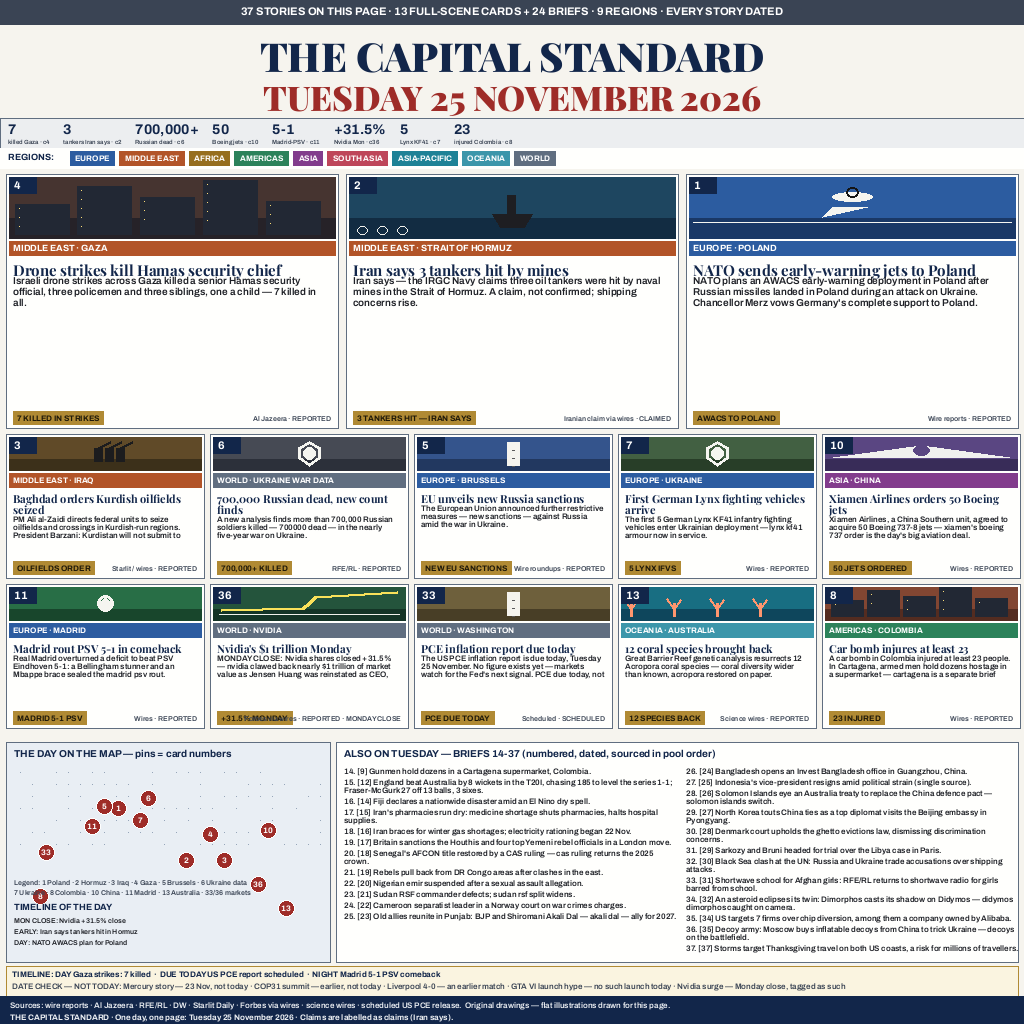
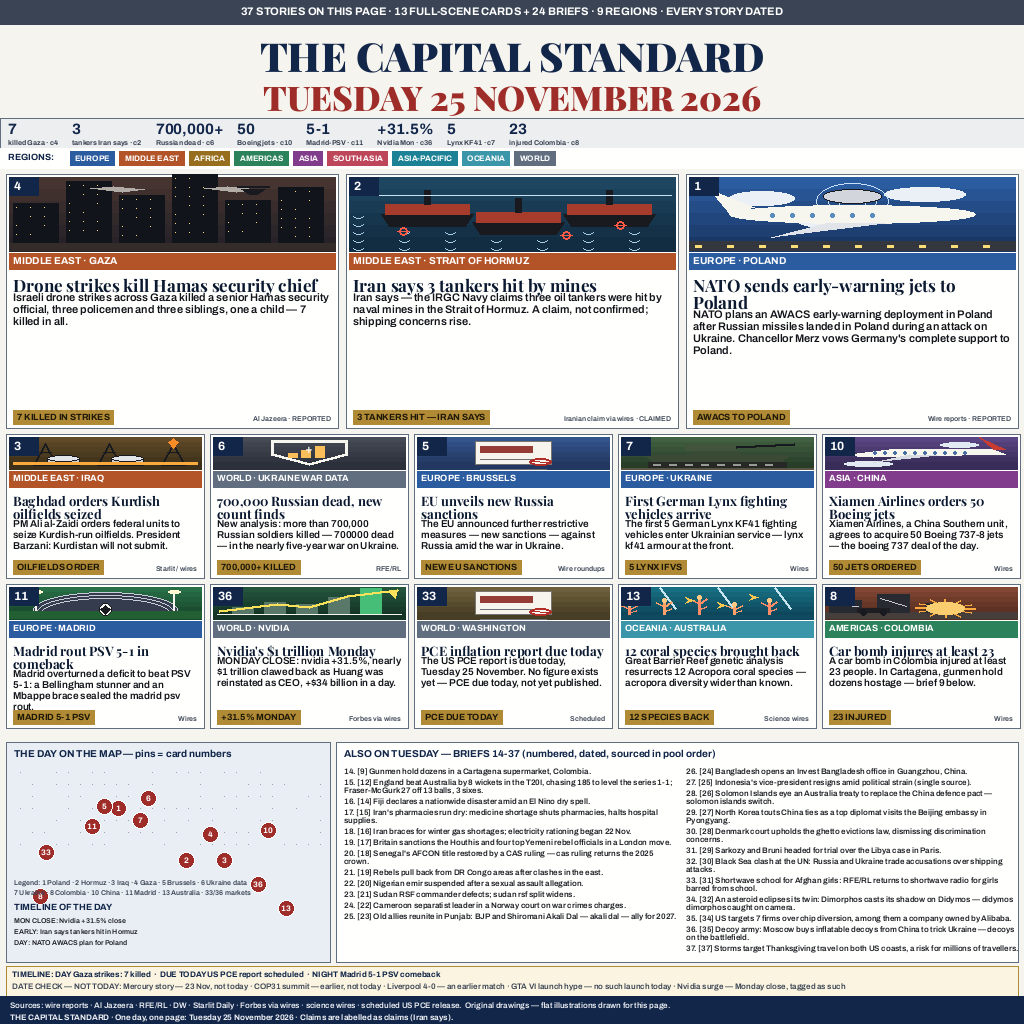
NI25 F1 v2 rebuild: layered story-specific scenes + enlarged grid typography (duel v2 winner C over D and standing v1 A)

Changed region(s): [[0.0, 0.4062, 1.0, 0.7188], [0.0, 0.125, 1.0, 0.3438], [0.5, 0.125, 0.5625, 0.1562]]

diff --git a/compose.py b/compose.py
@@ -46,67 +46,152 @@ def text_block(d, xy, text, font, fill, maxw, leading=1.12, max_lines=None):
         y += lh
     return y
 
-# ---------- flat layered scene illustrations ----------
+# ---------- v2: rich layered scene illustrations (specific to each story) ----------
+def _lerp(a, b, t):
+    return tuple(int(a[i] + (b[i] - a[i]) * t) for i in range(3))
+
 def scene(d, box, kind, c1, c2):
     x0, y0, x1, y1 = box
-    d.rectangle(box, fill=c1)
-    # layered bands
-    d.rectangle([x0, y1 - (y1 - y0) // 3, x1, y1], fill=c2)
+    w, h = x1 - x0, y1 - y0
+    # sky/ground gradient bands (layered depth)
+    for i in range(6):
+        d.rectangle([x0, y0 + h * i // 6, x1, y0 + h * (i + 1) // 6 + 1], fill=_lerp(c1, c2, i / 5))
     cx, cy = (x0 + x1) // 2, (y0 + y1) // 2
-    s = min(x1 - x0, y1 - y0)
-    if kind == "plane":  # AWACS: fuselage + radar dome
-        d.ellipse([cx - s//3, cy - s//4, cx + s//3, cy - s//10], fill=(245,245,240))
-        d.polygon([(cx - s//3, cy), (cx - s//2, cy + s//6), (cx + s//4, cy)], fill=(245,245,240))
-        d.ellipse([cx - s//10, cy - s//3, cx + s//10, cy - s//6], outline=(20,20,20), width=2)
-        d.line([x0 + 4, cy + s//4, x1 - 4, cy + s//4], fill=(245,245,240), width=1)
-    elif kind == "ship":
-        d.polygon([(cx - s//3, cy + s//8), (cx + s//3, cy + s//8), (cx + s//5, cy + s//3), (cx - s//5, cy + s//3)], fill=(30,30,34))
-        d.rectangle([cx - s//12, cy - s//5, cx + s//20, cy + s//8], fill=(30,30,34))
+    WHT = (246, 245, 238); DRK = (24, 26, 32); GLD = (250, 220, 120)
+    if kind == "plane":  # AWACS over Poland: sky, clouds, radar rings, runway
+        for (ex, ey, ew) in [(x0 + w//8, y0 + h//5, w//5), (x0 + 3*w//5, y0 + h//7, w//4), (x0 + w//3, y0 + h//2, w//6)]:
+            d.ellipse([ex, ey, ex + ew, ey + h//5], fill=(235, 240, 246))
+        for r in (h//5, h//3, h//2):
+            d.ellipse([cx - r, cy - r//2 - h//6, cx + r, cy + r//2 - h//6], outline=(200, 225, 250), width=1)
+        d.ellipse([x0 + w//8, cy - h//9, x1 - w//8, cy + h//7], fill=WHT)
+        d.polygon([(x0 + w//8, cy), (x0 + w//16, cy - h//3), (x0 + w//5, cy - h//12)], fill=WHT)
+        d.polygon([(cx - w//14, cy + h//8), (cx - w//4, cy + h//3), (cx + w//10, cy + h//7)], fill=(225, 228, 232))
+        d.ellipse([cx - w//11, cy - h//3, cx + w//11, cy - h//7], fill=(210, 214, 220), outline=DRK, width=1)
+        for wx in range(x0 + w//4, x0 + 3*w//5, max(6, w//16)):
+            d.ellipse([wx, cy, wx + 4, cy + 4], fill=(90, 140, 190))
+        d.rectangle([x0, y1 - h//8, x1, y1], fill=(52, 56, 62))
+        for dx in range(x0 + 6, x1 - 6, max(10, w//10)):
+            d.rectangle([dx, y1 - h//16 - 1, dx + 6, y1 - h//16 + 1], fill=GLD)
+    elif kind == "ship":  # Hormuz: three tankers, sea lanes, mine markers
+        for wy in range(y0 + h//2, y1 - 2, max(4, h//9)):
+            for wx in range(x0 + 4, x1 - 10, max(14, w//7)):
+                d.arc([wx, wy, wx + 10, wy + 5], 0, 180, fill=(170, 205, 230), width=1)
+        for i, fx in enumerate((0.24, 0.52, 0.8)):
+            tx = x0 + int(w * fx); base = y0 + int(h * (0.52 + 0.1 * (i % 2)))
+            sc = max(14, w // 7)
+            d.polygon([(tx - sc, base), (tx + sc, base), (tx + sc - 8, base + h//6), (tx - sc + 8, base + h//6)], fill=DRK)
+            d.rectangle([tx - sc + 4, base - h//7, tx + sc - 4, base], fill=(168, 60, 44))
+            d.rectangle([tx - 3, base - h//3, tx + 3, base - h//7], fill=DRK)
+        for (mx, my) in [(x0 + w//6, y0 + 3*h//4), (x0 + 2*w//3, y0 + 4*h//5), (x0 + 5*w//6, y0 + 2*h//3)]:
+            d.ellipse([mx - 4, my - 4, mx + 4, my + 4], outline=(250, 90, 70), width=2)
+            d.line([mx - 6, my, mx + 6, my], fill=(250, 90, 70), width=1)
+        d.line([x0 + 4, y0 + h//4, x1 - 4, y0 + h//4], fill=(200, 225, 245), width=1)
+    elif kind == "city":  # Gaza: skyline, lit windows, smoke plumes, drone overhead
+        for i, hh in enumerate([0.55, 0.85, 0.66, 0.95, 0.6, 0.78]):
+            bx = x0 + 4 + i * (w - 8) // 6; bw = (w - 8) // 7
+            top = y1 - int(h * hh) - h//10
+            d.rectangle([bx, top, bx + bw, y1 - h//10], fill=(18, 20, 28))
+            for wy in range(top + 4, y1 - h//10 - 4, max(5, h//8)):
+                for wx in range(bx + 3, bx + bw - 2, max(5, w//22)):
+                    if (wx * 7 + wy * 3) % 5:
+                        d.point((wx, wy), fill=GLD)
+        for px in (x0 + w//4, x0 + 3*w//5):
+            d.polygon([(px, y1 - int(h*0.85)), (px + w//14, y0 + h//8), (px + w//6, y0 + h//6), (px + w//10, y1 - int(h*0.8))], fill=(178, 172, 166))
+        dx, dy = x0 + 3*w//4, y0 + h//6
+        d.polygon([(dx - 12, dy), (dx + 12, dy), (dx + 4, dy + 5), (dx - 4, dy + 5)], fill=DRK)
+        d.line([dx - 16, dy - 3, dx + 16, dy - 3], fill=DRK, width=2)
+        d.rectangle([x0, y1 - h//10, x1, y1], fill=(52, 44, 40))
+    elif kind == "oil":  # Iraq oilfields: derricks, storage tanks, pipeline, flare
         for i in range(3):
-            d.ellipse([x0 + 8 + i * (s//3), y1 - 12, x0 + 18 + i * (s//3), y1 - 4], outline=(240,240,235), width=1)
-    elif kind == "city":
-        for i, hh in enumerate([0.5, 0.8, 0.62, 0.9, 0.55]):
-            bx = x0 + 6 + i * (x1 - x0 - 12) // 5
-            d.rectangle([bx, y1 - int((y1-y0)*hh) - 4, bx + (x1-x0)//6, y1 - 4], fill=(34,40,52))
-            for wy in range(y1 - int((y1-y0)*hh), y1 - 10, 9):
-                d.point((bx + 4, wy), fill=(250,220,120))
-    elif kind == "dome":
-        d.pieslice([cx - s//3, cy - s//3, cx + s//3, cy + s//3], 180, 360, fill=(240,238,230))
-        d.rectangle([cx - s//3, cy, cx + s//3, cy + 3], fill=(240,238,230))
-        d.line([cx, cy - s//3, cx, cy - s//2], fill=(240,238,230), width=2)
-    elif kind == "oil":
-        for i in range(3):
-            bx = cx - s//3 + i * s//3
-            d.rectangle([bx, cy - s//6, bx + 8, cy + s//4], fill=(28,28,30))
-            d.line([bx + 4, cy - s//6, bx + 16, cy - s//3], fill=(28,28,30), width=3)
-    elif kind == "chart":
-        pts = [(x0 + 8, y1 - 10), (cx - s//5, cy + s//6), (cx, cy), (cx + s//5, cy - s//5), (x1 - 8, cy - s//3)]
-        d.line(pts, fill=(250,225,90), width=3)
-        d.line([x0 + 6, y1 - 6, x1 - 6, y1 - 6], fill=(240,240,235), width=1)
-    elif kind == "shield":
-        d.polygon([(cx, y0 + 4), (cx + s//3, y0 + 10), (cx + s//3, cy + s//6), (cx, y1 - 4), (cx - s//3, cy + s//6), (cx - s//3, y0 + 10)], outline=(245,245,240), width=3)
-        d.ellipse([cx - 6, cy - 6, cx + 6, cy + 6], fill=(245,245,240))
-    elif kind == "ball":
-        d.ellipse([cx - s//4, cy - s//4, cx + s//4, cy + s//4], outline=(245,245,240), width=3)
-        d.polygon([(cx, cy - 6), (cx + 7, cy), (cx, cy + 7), (cx - 7, cy)], fill=(245,245,240))
-    elif kind == "coral":
-        for i in range(4):
-            bx = x0 + 10 + i * (x1 - x0 - 20) // 4
-            d.line([bx, y1 - 4, bx, cy], fill=(255,150,110), width=3)
-            d.line([bx, cy + 6, bx - 7, cy - 4], fill=(255,150,110), width=2)
-            d.line([bx, cy + 6, bx + 7, cy - 4], fill=(255,150,110), width=2)
-    elif kind == "jet":
-        d.polygon([(x0 + 8, cy + 4), (cx, cy - s//4), (x1 - 8, cy + 4), (cx, cy + s//8)], fill=(240,240,238))
-        d.ellipse([cx - 8, cy - 8, cx + 8, cy + 2], fill=c1)
-    elif kind == "doc":
-        d.rectangle([cx - s//5, y0 + 5, cx + s//5, y1 - 5], fill=(245,244,238))
-        for i in range(3):
-            d.line([cx - s//5 + 5, y0 + 13 + i * 8, cx + s//5 - 5, y0 + 13 + i * 8], fill=(90,90,90), width=1)
-    else:  # sun / generic
-        d.ellipse([cx - s//5, cy - s//5, cx + s//5, cy + s//5], fill=(250,215,110))
-        for a in range(0, 360, 45):
+            bx = x0 + w//8 + i * w//3
+            d.polygon([(bx, y1 - h//8), (bx + w//16, y0 + h//5), (bx + w//8, y1 - h//8)], outline=DRK, width=2)
+            d.line([bx + w//32, y0 + h//2, bx + 3*w//32, y0 + h//2], fill=DRK, width=1)
+        for i in range(2):
+            tx = x0 + w//5 + i * w//3
+            d.rectangle([tx, y1 - h//3, tx + w//6, y1 - h//8], fill=(205, 208, 212), outline=DRK)
+            d.ellipse([tx, y1 - h//3 - 3, tx + w//6, y1 - h//3 + 3], fill=(225, 228, 232), outline=DRK)
+        d.line([x0 + 4, y1 - h//6, x1 - 4, y1 - h//6], fill=(250, 170, 60), width=3)
+        fx, fy = x0 + 6*w//7, y0 + h//6
+        d.polygon([(fx, fy + h//5), (fx - 5, fy), (fx, fy - h//7), (fx + 5, fy), ], fill=(250, 140, 40))
+    elif kind == "chart":  # Nvidia: bars + soaring line + axis
+        base = y1 - h//7
+        for i, bh in enumerate((0.25, 0.4, 0.34, 0.58, 0.86)):
+            bx = x0 + w//10 + i * w//6
+            d.rectangle([bx, base - int(h * bh), bx + w//9, base], fill=(70, 190, 120) if i == 4 else (90, 120, 105))
+        pts = [(x0 + 6, base - h//8), (cx - w//6, base - h//3), (cx, base - h//4), (cx + w//5, base - 3*h//5), (x1 - 8, base - 4*h//5)]
+        d.line(pts, fill=(250, 225, 90), width=3)
+        d.polygon([(x1 - 8, base - 4*h//5), (x1 - 16, base - 4*h//5 + 2), (x1 - 10, base - 4*h//5 + 8)], fill=(250, 225, 90))
+        d.line([x0 + 4, base, x1 - 4, base], fill=WHT, width=1)
+    elif kind == "shield":  # war-data: shield over bar-chart of loss + cross markers
+        d.polygon([(cx, y0 + 3), (cx + w//5, y0 + h//8), (cx + w//5, cy + h//8), (cx, y1 - 3), (cx - w//5, cy + h//8), (cx - w//5, y0 + h//8)], outline=WHT, width=3)
+        for i, bh in enumerate((0.3, 0.5, 0.72)):
+            bx = cx - w//9 + i * w//14
+            d.rectangle([bx, cy + h//6 - int(h * bh * 0.5), bx + w//20, cy + h//6], fill=(250, 190, 90))
+        d.text((cx - 4, y0 + h//6), "+", font=F(AR_B, 12), fill=WHT)
+    elif kind == "tank":  # Lynx KF41: armoured vehicle profile, tracks, turret
+        gy = y1 - h//5
+        d.polygon([(x0 + w//8, gy - h//4), (x0 + w//3, gy - h//4), (x0 + 2*w//5, gy - 2*h//5), (x0 + 3*w//5, gy - 2*h//5), (x0 + 5*w//8, gy - h//4), (x1 - w//8, gy - h//4), (x1 - w//6, gy), (x0 + w//6, gy)], fill=(58, 74, 52))
+        d.rectangle([x0 + w//3, gy - 3*h//5, x0 + 3*w//5, gy - 2*h//5], fill=(66, 84, 60))
+        d.line([x0 + 3*w//5, gy - h//2, x1 - w//10, gy - 3*h//5], fill=DRK, width=3)
+        d.rectangle([x0 + w//7, gy, x1 - w//7, gy + h//6], fill=(38, 40, 38))
+        for wx in range(x0 + w//6, x1 - w//6, max(8, w//12)):
+            d.ellipse([wx, gy + 2, wx + 7, gy + h//6 - 2], outline=(150, 155, 150), width=1)
+        d.line([x0, gy + h//5, x1, gy + h//5], fill=(90, 84, 70), width=2)
+    elif kind == "ball":  # Madrid: stadium bowl, floodlights, ball, scoreboard arc
+        d.pieslice([x0 + w//8, y0 + h//6, x1 - w//8, y1 + h//3], 180, 360, fill=(52, 60, 78))
+        for r in range(3):
+            d.arc([x0 + w//8 + r * 4, y0 + h//6 + r * 3, x1 - w//8 - r * 4, y1 + h//3], 180, 360, fill=(200, 205, 215))
+        for fx in (x0 + w//7, x1 - w//7):
+            d.line([fx, y1 - h//4, fx, y0 + h//8], fill=WHT, width=2)
+            d.ellipse([fx - 6, y0 + h//10, fx + 6, y0 + h//5], fill=(255, 250, 210))
+        d.rectangle([x0, y1 - h//4, x1, y1], fill=(34, 96, 52))
+        d.ellipse([cx - h//5, y1 - h//2, cx + h//5, y1 - h//10], fill=WHT, outline=DRK)
+        d.polygon([(cx, y1 - 3*h//10 - 4), (cx + 5, y1 - 3*h//10), (cx, y1 - 3*h//10 + 5), (cx - 5, y1 - 3*h//10)], fill=DRK)
+    elif kind == "coral":  # GBR reef: branching coral, fish, seabed, sun rays
+        for sx in (x0 + w//5, x0 + w//2, x0 + 4*w//5):
+            d.line([sx, y0, sx + w//12, y1 - h//3], fill=(200, 230, 240), width=2)
+        for i in range(5):
+            bx = x0 + 8 + i * (w - 16) // 5; bh = h * (0.45 + 0.1 * (i % 3))
+            col = (255, 140 + 20 * (i % 2), 105)
+            d.line([bx, y1 - h//8, bx, y1 - int(bh)], fill=col, width=3)
+            d.line([bx, y1 - int(bh * 0.7), bx - 8, y1 - int(bh * 0.9)], fill=col, width=2)
+            d.line([bx, y1 - int(bh * 0.7), bx + 8, y1 - int(bh)], fill=col, width=2)
+            d.line([bx, y1 - int(bh * 0.45), bx + 7, y1 - int(bh * 0.62)], fill=col, width=2)
+            d.ellipse([bx - 2, y1 - int(bh) - 3, bx + 2, y1 - int(bh) + 1], fill=(255, 200, 130))
+        for (fx, fy) in [(x0 + w//3, y0 + h//3), (x0 + 2*w//3, y0 + h//4), (x0 + w//2, y0 + h//2)]:
+            d.polygon([(fx, fy), (fx + 9, fy + 3), (fx, fy + 6), (fx + 3, fy + 3)], fill=(250, 200, 80))
+        d.rectangle([x0, y1 - h//8, x1, y1], fill=(16, 74, 96))
+    elif kind == "jet":  # Boeing 737-8: airliner profile, windows, tail, clouds
+        for (ex, ey, ew) in [(x0 + w//10, y1 - h//4, w//4), (x0 + 3*w//5, y0 + h//6, w//5)]:
+            d.ellipse([ex, ey, ex + ew, ey + h//6], fill=(225, 233, 242))
+        d.polygon([(x0 + w//12, cy + h//10), (x0 + w//3, cy - h//8), (x1 - w//8, cy - h//10), (x1 - w//16, cy + h//12), (x0 + w//4, cy + h//6)], fill=WHT)
+        d.polygon([(x1 - w//8, cy - h//10), (x1 - w//5, cy - h//2), (x1 - w//16, cy - h//10)], fill=(200, 60, 50))
+        d.polygon([(cx - w//16, cy + h//12), (cx - w//4, cy + h//3), (cx + w//12, cy + h//10)], fill=(215, 220, 226))
+        for wx in range(x0 + w//4, x1 - w//4, max(6, w//18)):
+            d.ellipse([wx, cy - h//16, wx + 3, cy - h//16 + 3], fill=(70, 110, 160))
+    elif kind == "blast":  # Colombia car bomb: street, car, burst, broken windows
+        d.rectangle([x0, y1 - h//5, x1, y1], fill=(70, 62, 58))
+        for i, hh in enumerate((0.6, 0.8, 0.5)):
+            bx = x0 + 4 + i * w // 4
+            d.rectangle([bx, y1 - int(h * hh), bx + w//6, y1 - h//5], fill=(40, 42, 50))
+            d.line([bx + 3, y1 - int(h * hh) + 4, bx + w//6 - 3, y1 - h//5 - 6], fill=(200, 200, 205), width=1)
+        bx2, by2 = cx + w//8, y1 - h//3
+        for a in range(0, 360, 30):
             import math
-            d.line([cx, cy, cx + int(s*0.36*math.cos(math.radians(a))), cy + int(s*0.36*math.sin(math.radians(a)))], fill=(250,215,110), width=2)
+            d.line([bx2, by2, bx2 + int(w * 0.16 * math.cos(math.radians(a))), by2 + int(h * 0.3 * math.sin(math.radians(a)))], fill=(250, 170, 60), width=2)
+        d.ellipse([bx2 - w//10, by2 - h//5, bx2 + w//10, by2 + h//5], fill=(250, 205, 110))
+        d.rectangle([x0 + w//6, y1 - h//3, x0 + w//3, y1 - h//5], fill=(30, 30, 34))
+        d.ellipse([x0 + w//6 + 3, y1 - h//5 - 3, x0 + w//6 + 9, y1 - h//5 + 3], fill=DRK)
+        d.ellipse([x0 + w//3 - 9, y1 - h//5 - 3, x0 + w//3 - 3, y1 - h//5 + 3], fill=DRK)
+    elif kind == "doc":  # sanctions / PCE: document, seal, ruled lines, stamp
+        d.rectangle([cx - w//5, y0 + 4, cx + w//5, y1 - 4], fill=(246, 244, 236), outline=(120, 118, 110))
+        d.rectangle([cx - w//5 + 5, y0 + 9, cx + w//10, y0 + 15], fill=(150, 60, 55))
+        for i in range(3):
+            d.line([cx - w//5 + 5, y0 + 22 + i * max(5, h//7), cx + w//5 - 5, y0 + 22 + i * max(5, h//7)], fill=(110, 110, 115), width=1)
+        d.ellipse([cx + w//12, y1 - h//3, cx + w//5, y1 - h//8], outline=(178, 44, 40), width=2)
+        d.line([cx + w//12 + 3, y1 - h//4, cx + w//5 - 3, y1 - h//5], fill=(178, 44, 40), width=1)
+    else:
+        d.ellipse([cx - w//6, cy - h//4, cx + w//6, cy + h//4], fill=(250, 215, 110))
 
 REGION_COLORS = {
     "EUROPE": (44, 92, 160), "MIDDLE EAST": (178, 84, 40), "AFRICA": (150, 110, 30),
@@ -129,35 +214,35 @@ LEADS = [
 ]
 GRID = [
     (3, "MIDDLE EAST", "IRAQ", "Baghdad orders Kurdish oilfields seized",
-     "PM Ali al-Zaidi directs federal units to seize oilfields and crossings in Kurdish-run regions. President Barzani: Kurdistan will not submit to unconstitutional decisions.",
+     "PM Ali al-Zaidi orders federal units to seize Kurdish-run oilfields. President Barzani: Kurdistan will not submit.",
      "Starlit / wires", "REPORTED", "OILFIELDS ORDER", "oil", (96, 74, 40), (60, 48, 26)),
     (6, "WORLD", "UKRAINE WAR DATA", "700,000 Russian dead, new count finds",
-     "A new analysis finds more than 700,000 Russian soldiers killed — 700000 dead — in the nearly five-year war on Ukraine.",
+     "New analysis: more than 700,000 Russian soldiers killed — 700000 dead — in the nearly five-year war on Ukraine.",
      "RFE/RL", "REPORTED", "700,000+ KILLED", "shield", (70, 74, 84), (44, 48, 58)),
     (5, "EUROPE", "BRUSSELS", "EU unveils new Russia sanctions",
-     "The European Union announced further restrictive measures — new sanctions — against Russia amid the war in Ukraine.",
+     "The EU announced further restrictive measures — new sanctions — against Russia amid the war in Ukraine.",
      "Wire roundups", "REPORTED", "NEW EU SANCTIONS", "doc", (52, 84, 140), (34, 56, 96)),
     (7, "EUROPE", "UKRAINE", "First German Lynx fighting vehicles arrive",
-     "The first 5 German Lynx KF41 infantry fighting vehicles enter Ukrainian deployment — lynx kf41 armour now in service.",
-     "Wires", "REPORTED", "5 LYNX IFVS", "shield", (66, 96, 66), (40, 62, 40)),
+     "The first 5 German Lynx KF41 fighting vehicles enter Ukrainian service — lynx kf41 armour at the front.",
+     "Wires", "REPORTED", "5 LYNX IFVS", "tank", (66, 96, 66), (40, 62, 40)),
     (10, "ASIA", "CHINA", "Xiamen Airlines orders 50 Boeing jets",
-     "Xiamen Airlines, a China Southern unit, agreed to acquire 50 Boeing 737-8 jets — xiamen's boeing 737 order is the day's big aviation deal.",
+     "Xiamen Airlines, a China Southern unit, agrees to acquire 50 Boeing 737-8 jets — the boeing 737 deal of the day.",
      "Wires", "REPORTED", "50 JETS ORDERED", "jet", (90, 70, 130), (56, 44, 88)),
     (11, "EUROPE", "MADRID", "Madrid rout PSV 5-1 in comeback",
-     "Real Madrid overturned a deficit to beat PSV Eindhoven 5-1: a Bellingham stunner and an Mbappe brace sealed the madrid psv rout.",
+     "Madrid overturned a deficit to beat PSV 5-1: a Bellingham stunner and an Mbappe brace sealed the madrid psv rout.",
      "Wires", "REPORTED", "MADRID 5-1 PSV", "ball", (40, 110, 70), (24, 70, 44)),
     (36, "WORLD", "NVIDIA", "Nvidia's $1 trillion Monday",
-     "MONDAY CLOSE: Nvidia shares closed +31.5% — nvidia clawed back nearly $1 trillion of market value as Jensen Huang was reinstated as CEO, +$34 billion in a day (Forbes).",
+     "MONDAY CLOSE: nvidia +31.5%, nearly $1 trillion clawed back as Huang was reinstated as CEO, +$34 billion in a day.",
      "Forbes via wires", "REPORTED · MONDAY CLOSE", "+31.5% MONDAY", "chart", (36, 84, 60), (20, 52, 38)),
     (33, "WORLD", "WASHINGTON", "PCE inflation report due today",
-     "The US PCE inflation report is due today, Tuesday 25 November. No figure exists yet — markets watch for the Fed's next signal. PCE due today, not yet published.",
+     "The US PCE report is due today, Tuesday 25 November. No figure exists yet — PCE due today, not yet published.",
      "Scheduled", "SCHEDULED", "PCE DUE TODAY", "doc", (110, 96, 60), (72, 62, 38)),
     (13, "OCEANIA", "AUSTRALIA", "12 coral species brought back",
-     "Great Barrier Reef genetic analysis resurrects 12 Acropora coral species — coral diversity wider than known, acropora restored on paper.",
+     "Great Barrier Reef genetic analysis resurrects 12 Acropora coral species — acropora diversity wider than known.",
      "Science wires", "REPORTED", "12 SPECIES BACK", "coral", (24, 110, 130), (14, 70, 92)),
     (8, "AMERICAS", "COLOMBIA", "Car bomb injures at least 23",
-     "A car bomb in Colombia injured at least 23 people. In Cartagena, armed men hold dozens hostage in a supermarket — cartagena is a separate brief below.",
-     "Wires", "REPORTED", "23 INJURED", "city", (130, 70, 50), (84, 44, 32)),
+     "A car bomb in Colombia injured at least 23 people. In Cartagena, gunmen hold dozens hostage — brief 9 below.",
+     "Wires", "REPORTED", "23 INJURED", "blast", (130, 70, 50), (84, 44, 32)),
 ]
 BRIEFS = [
     (9, "Gunmen hold dozens in a Cartagena supermarket, Colombia."),
@@ -201,19 +286,19 @@ def card(d, box, story, big=False):
     num, region, place, head, deck, source, cert, chip, kind, c1, c2 = story
     x0, y0, x1, y1 = box
     d.rectangle(box, fill=(255, 255, 253), outline=STEEL, width=1)
-    sh = 64 if big else 36
+    sh = 76 if big else 34
     scene(d, (x0 + 3, y0 + 3, x1 - 3, y0 + sh), kind, c1, c2)
-    d.rectangle([x0 + 3, y0 + 3, x0 + 30, y0 + 19], fill=INK)
-    d.text((x0 + 8, y0 + 5), str(num), font=F(AR_B, 11), fill=(255, 255, 255))
+    d.rectangle([x0 + 3, y0 + 3, x0 + 32, y0 + 21], fill=INK)
+    d.text((x0 + 8, y0 + 5), str(num), font=F(AR_B, 12), fill=(255, 255, 255))
     rc = REGION_COLORS[region]
-    d.rectangle([x0 + 3, y0 + sh + 3, x1 - 3, y0 + sh + 17], fill=rc)
-    d.text((x0 + 7, y0 + sh + 5), f"{region} · {place}", font=F(AR_B, 8 if not big else 9), fill=(255, 255, 255))
-    yy = text_block(d, (x0 + 7, y0 + sh + 21), head, F(PF_BOLD, 15 if big else 11), INK, x1 - x0 - 14, 1.05, 2)
-    yy = text_block(d, (x0 + 7, yy + 1), deck, F(AR, 10 if big else 8), (30, 32, 38), x1 - x0 - 14, 1.12, 5 if big else 3)
+    d.rectangle([x0 + 3, y0 + sh + 3, x1 - 3, y0 + sh + 19], fill=rc)
+    d.text((x0 + 7, y0 + sh + 5), f"{region} · {place}", font=F(AR_B, 10 if big else 9), fill=(255, 255, 255))
+    yy = text_block(d, (x0 + 7, y0 + sh + 23), head, F(PF_BOLD, 17 if big else 13), (10, 24, 48), x1 - x0 - 14, 1.05, 2)
+    yy = text_block(d, (x0 + 7, yy + 1), deck, F(AR, 11 if big else 10), (18, 20, 26), x1 - x0 - 14, 1.1, 6 if big else 4)
     # chip + source at bottom
-    d.rectangle([x0 + 7, y1 - 17, x0 + 7 + d.textlength(chip, font=F(AR_B, 8)) + 8, y1 - 4], fill=GOLD)
-    d.text((x0 + 11, y1 - 15), chip, font=F(AR_B, 8), fill=(30, 24, 8))
-    src = f"{source} · {cert}"
+    d.rectangle([x0 + 7, y1 - 18, x0 + 7 + d.textlength(chip, font=F(AR_B, 9)) + 8, y1 - 4], fill=GOLD)
+    d.text((x0 + 11, y1 - 16), chip, font=F(AR_B, 9), fill=(30, 24, 8))
+    src = f"{source} · {cert}" if big else source
     d.text((x1 - 7 - d.textlength(src, font=F(AR, 7)), y1 - 14), src, font=F(AR, 7), fill=STEEL_D)
     return
 
@@ -232,11 +317,11 @@ def header(d, variant):
     d.rectangle([0, 118, W, 148], fill=PAPER2, outline=STEEL)
     x = 8
     for n, lab in NUMBERS:
-        nw = d.textlength(n, font=F(AR_B, 14))
-        lw = d.textlength(lab, font=F(AR, 6))
+        nw = d.textlength(n, font=F(AR_B, 15))
+        lw = d.textlength(lab, font=F(AR_B, 7))
         cell = max(nw, lw) + 10
-        d.text((x, 121), n, font=F(AR_B, 14), fill=INK)
-        d.text((x, 138), lab, font=F(AR, 6), fill=STEEL_D)
+        d.text((x, 120), n, font=F(AR_B, 15), fill=INK)
+        d.text((x, 138), lab, font=F(AR_B, 7), fill=STEEL_D)
         x += cell + 4
     # region strip
     d.rectangle([0, 148, W, 168], fill=(255, 255, 253))
@@ -298,9 +383,9 @@ def bottom(d, variant):
 def build(variant, out):
     img = Image.new("RGB", (W, H), PAPER)
     d = ImageDraw.Draw(img)
-    header(d, variant)
-    if variant == "A":
-        # Layout C-A: lead trio row, Gaza first (matrix order)
+    header(d, "B" if variant == "D" else "A")
+    if variant == "C":
+        # v2-C: trio berjajar urutan matriks (Gaza · Hormuz · NATO), grid urutan pool
         xs = [6, 346, 686]
         for i, st in enumerate(LEADS):
             card(d, (xs[i], 174, xs[i] + 332, 428), st, big=True)
@@ -310,11 +395,12 @@ def build(variant, out):
             x = 6 + c * 204
             card(d, (x, 434 + r * 150, x + 198, 434 + r * 150 + 144), st)
     else:
-        # Layout C-B: NATO wide lead left, Gaza+Hormuz stacked right; grid order rotated
-        card(d, (6, 174, 560, 428), LEADS[2], big=True)
-        card(d, (566, 174, 1018, 298), LEADS[0], big=False)
-        card(d, (566, 304, 1018, 428), LEADS[1], big=False)
-        grid = GRID[5:] + GRID[:5]
+        # v2-D: trio berjajar, NATO (hard-news #1) di kiri, grid diputar mulai Nvidia/PCE
+        xs = [6, 346, 686]
+        leads = [LEADS[2], LEADS[0], LEADS[1]]
+        for i, st in enumerate(leads):
+            card(d, (xs[i], 174, xs[i] + 332, 428), st, big=True)
+        grid = GRID[6:] + GRID[:6]
         for i, st in enumerate(grid):
             r, c = divmod(i, 5)
             x = 6 + c * 204
